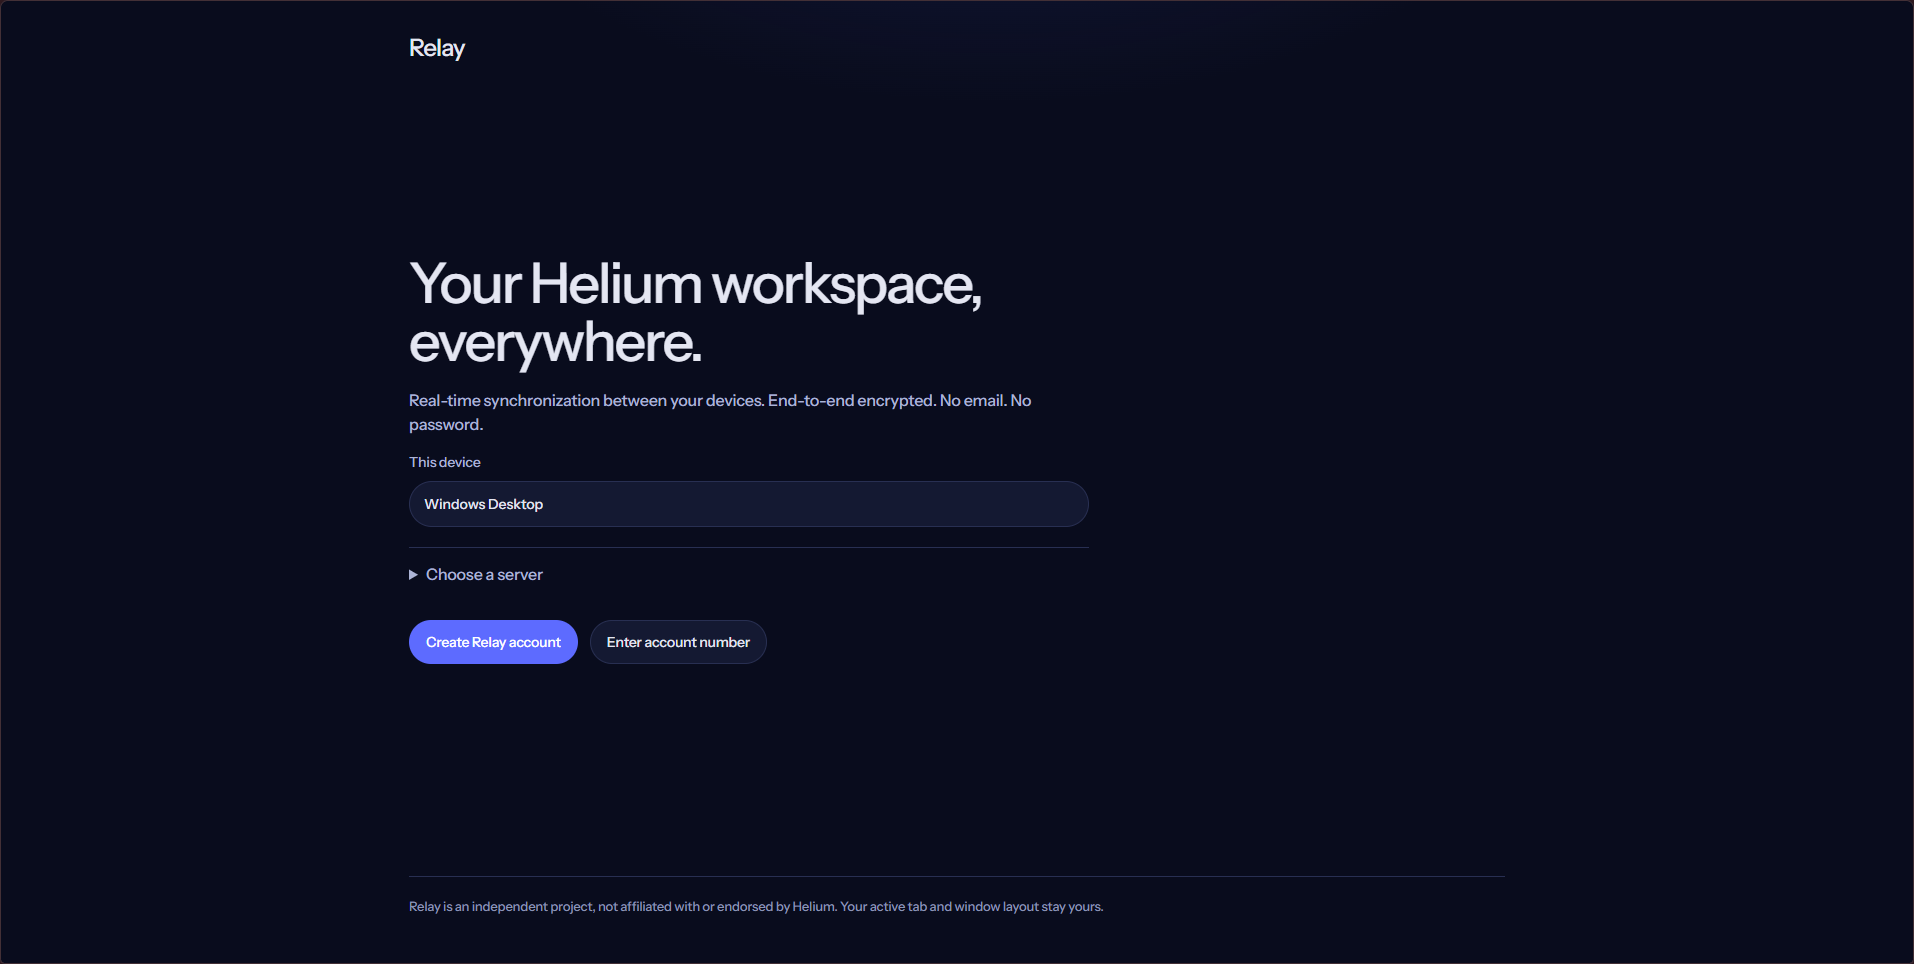
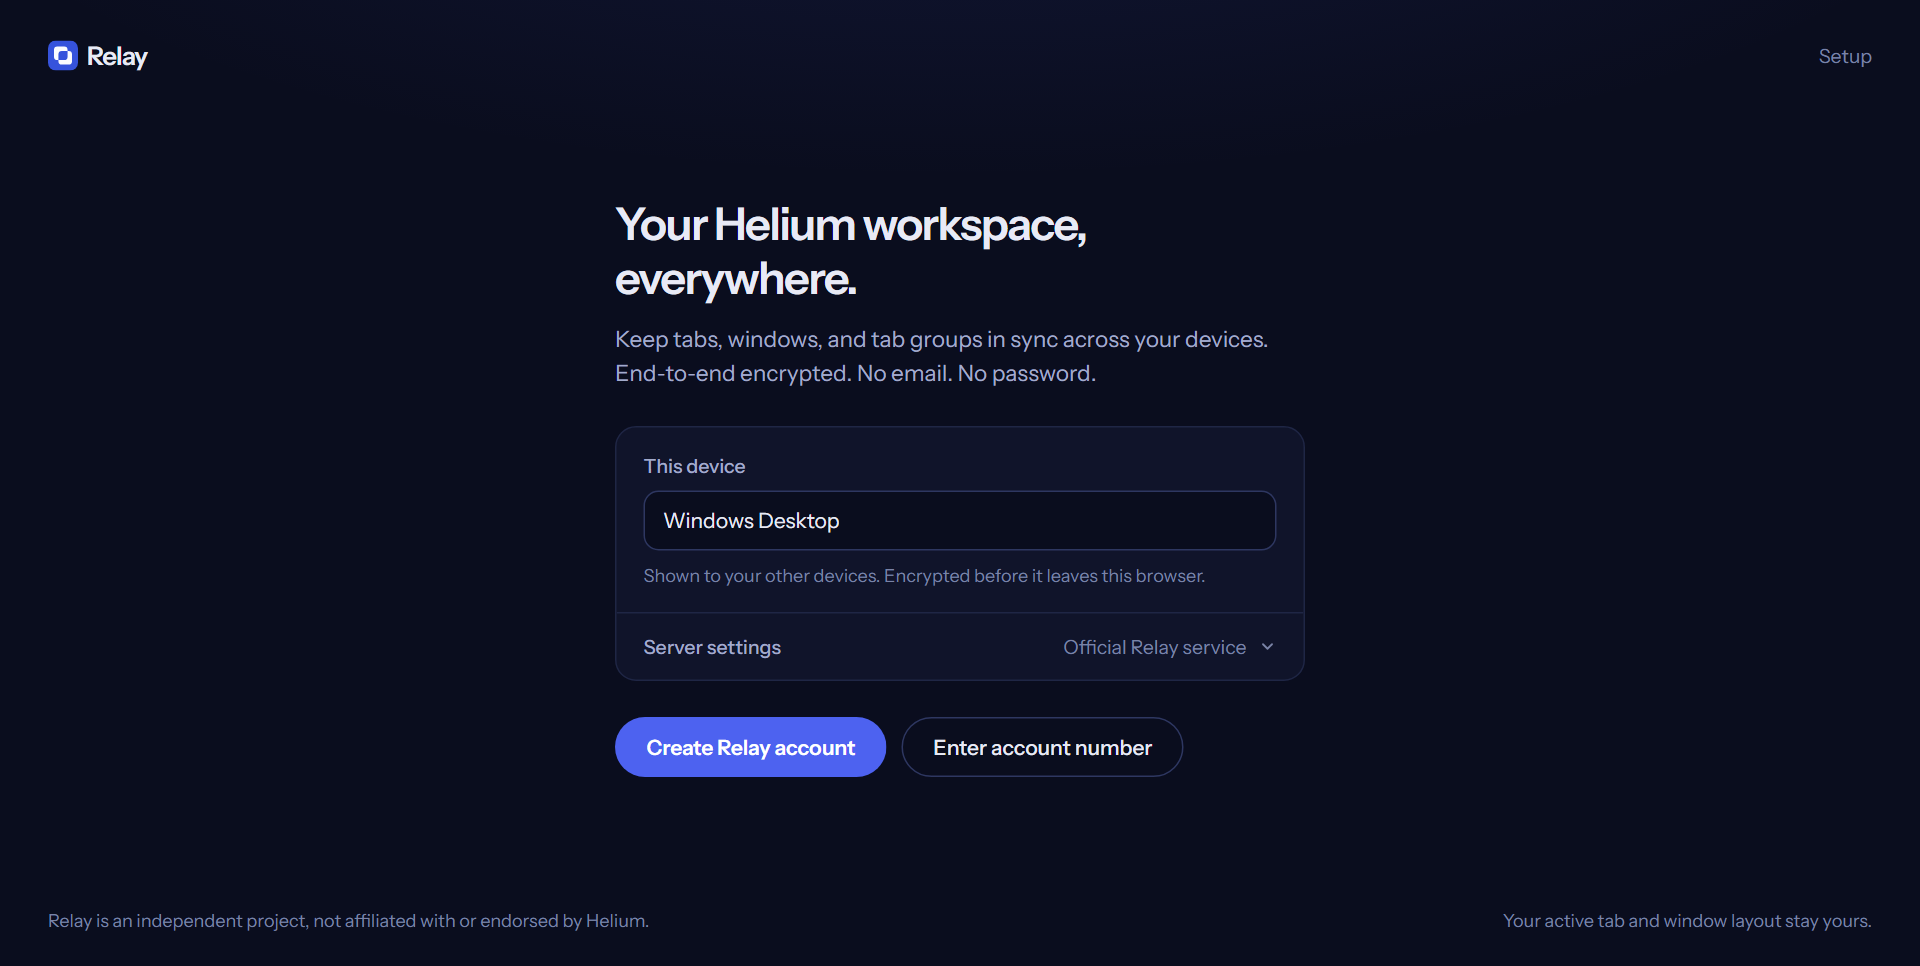
chore: prepare Relay v0.1.1 (#20)
- Bump extension to 0.1.1 for the interface redesign
- Replace README demo video and screenshots with the new UI, including the light theme

diff --git a/README.md b/README.md
@@ -10,30 +10,32 @@ Relay is an open-source browser extension and Cloudflare backend that keeps tabs
 
 Relay releases are distributed as unpacked Chromium extensions. To install, download and extract the ZIP, open `helium://extensions` or `chrome://extensions`, enable **Developer mode**, choose **Load unpacked**, and select the extracted folder containing `manifest.json`.
 
-## Demo
-
-Account creation, device setup, and live synchronization in action:
-
-https://github.com/user-attachments/assets/892100c9-1324-4502-83f7-7dbcdd6c6a55
+## Screenshots
 
 <p align="center">
-  <img src="docs/assets/relay-settings.png" alt="Relay settings showing a live synchronized workspace" width="900">
+  <img src="docs/assets/relay-settings.png" alt="Relay settings on the Devices page, listing three devices with rename and revoke controls" width="900">
 </p>
 
 <table>
   <tr>
     <td width="72%">
-      <img src="docs/assets/relay-onboarding.png" alt="Relay account creation screen">
+      <img src="docs/assets/relay-onboarding.png" alt="Relay setup screen with a device name field and Create Relay account button">
     </td>
     <td width="28%">
-      <img src="docs/assets/relay-popup.png" alt="Relay popup showing a live workspace with two connected devices">
+      <img src="docs/assets/relay-popup.png" alt="Relay popup showing a live workspace with two of three devices online">
     </td>
   </tr>
   <tr>
-    <td align="center"><strong>Private, passwordless onboarding</strong></td>
+    <td align="center"><strong>Private, passwordless setup</strong></td>
     <td align="center"><strong>Sync status at a glance</strong></td>
   </tr>
 </table>
+
+<p align="center">
+  <img src="docs/assets/relay-settings-light.png" alt="Relay synchronization settings in the light theme" width="900">
+  <br>
+  <strong>Follows your browser's light or dark theme</strong>
+</p>
 
 ## Why Relay exists
 
@@ -206,7 +208,7 @@ See [self-hosting](docs/SELF-HOSTING.md) for Cloudflare deployment and custom Wo
 
 ## Project status
 
-Relay is functional pre-release software (`0.1.0`).
+Relay is functional pre-release software (`0.1.1`).
 
 It has **not** received an independent security review and has not been released on the Chrome Web Store. The current implementation is a single-account device synchronization system in which authorized devices are equally privileged.
 

diff --git a/SECURITY.md b/SECURITY.md
@@ -1,6 +1,6 @@
 # Security
 
-Relay 0.1.0 is under development. No version has completed an independent security audit; there is not yet a production-supported release line.
+Relay 0.1.1 is under development. No version has completed an independent security audit; there is not yet a production-supported release line.
 
 Do not use disposable development builds as your sole copy of an important workspace. Keep recovery material private. Use trusted browsers, trusted extension builds, disk encryption and operating-system account protections.
 
